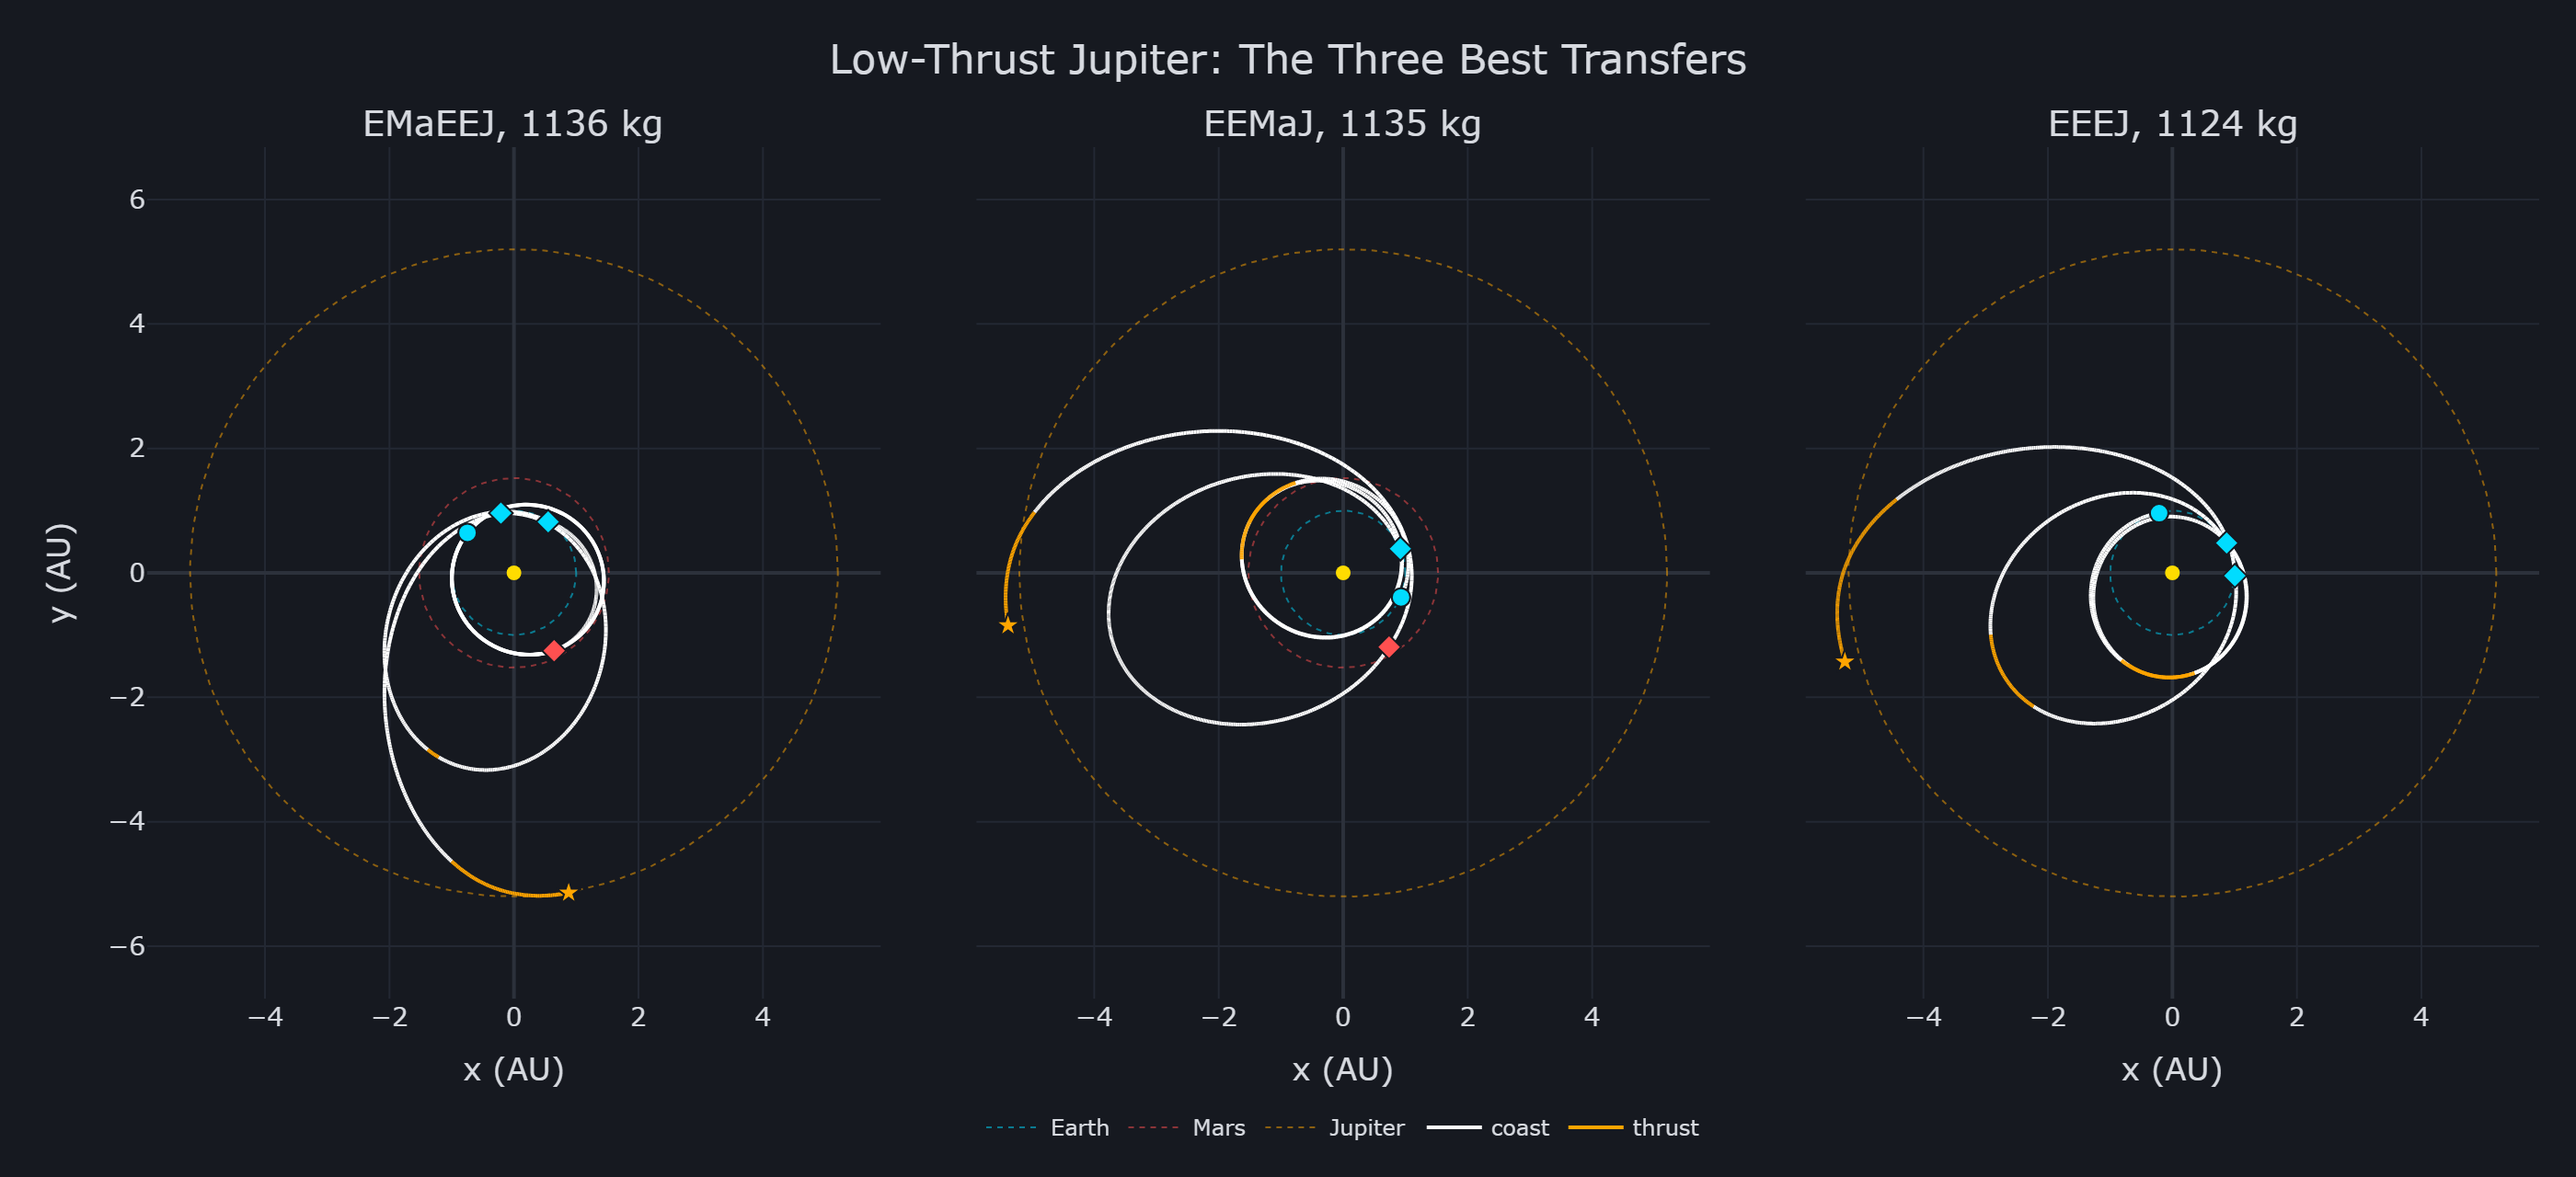
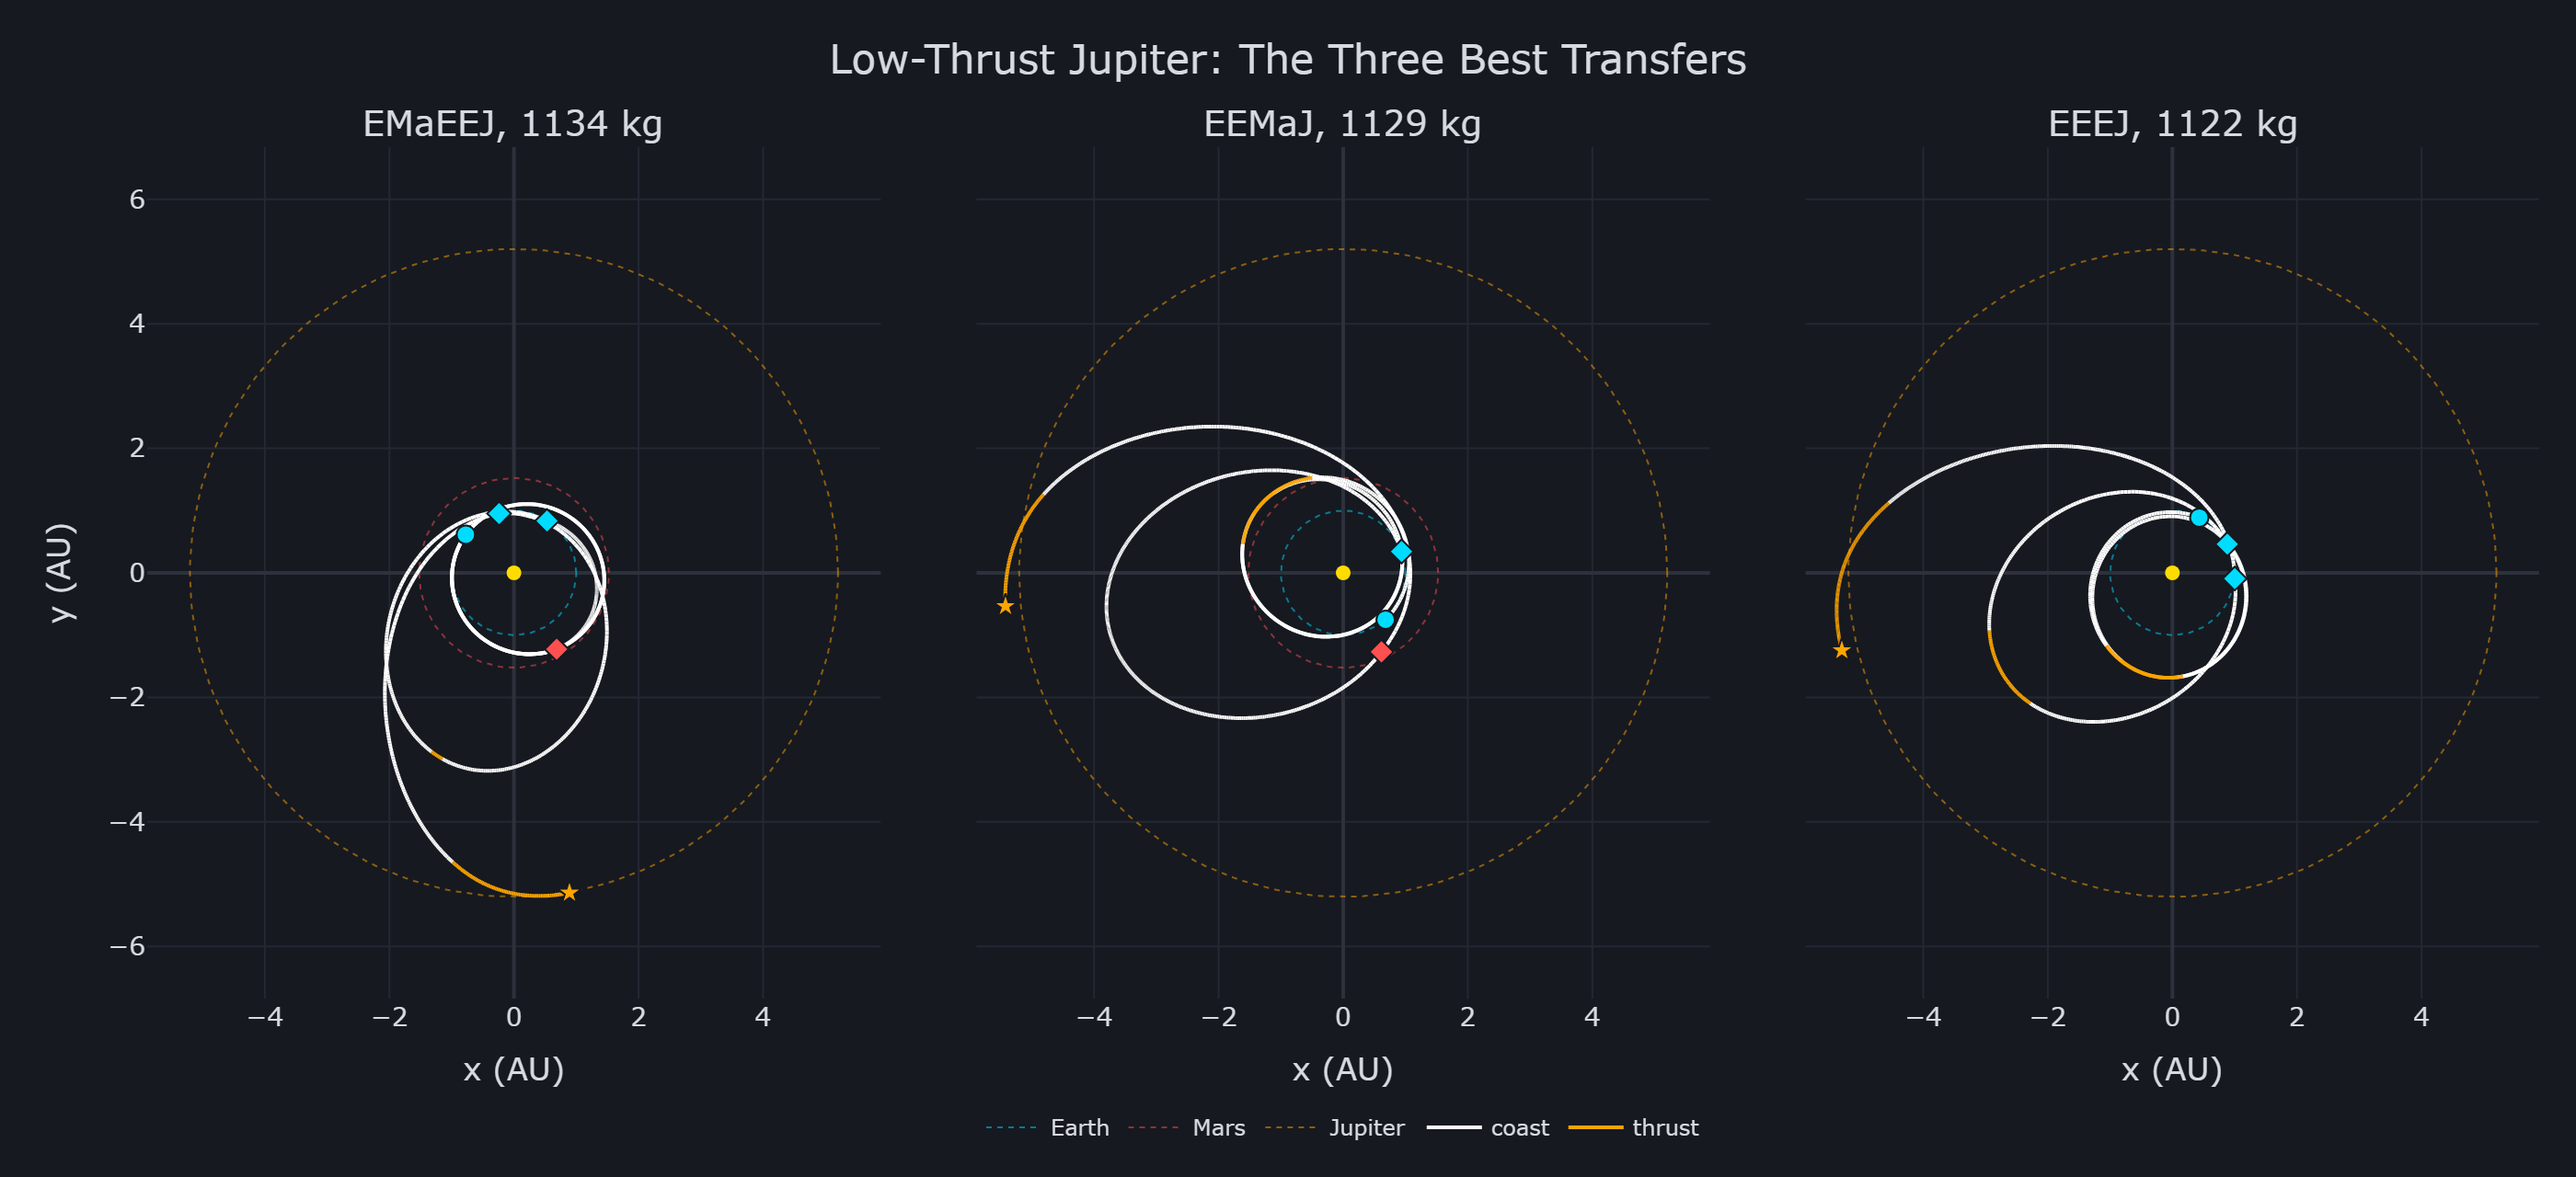
Gallery: low-thrust best transfers with clean coasts

diff --git a/Epicycle/docs/src/gallery.md b/Epicycle/docs/src/gallery.md
@@ -164,8 +164,8 @@ Low-thrust transfers to Jupiter and Saturn for a 1500 kg spacecraft with a 0.1 N
 thruster, launching between 2030 and 2040 at up to 4 km/s, ten years of flight at most, and up to
 four flybys. Each leg is a Sims-Flanagan transcription, and the cost is the mass delivered after a
 chemical orbit insertion. These searches ran before the survey was added, so they are the genetic
-algorithm alone. The best to Jupiter delivers 1136 kg on a Mars, Earth, Earth tour; the best to Saturn delivers
-1287 kg through Earth twice and Jupiter. Thrust arcs are orange.
+algorithm alone. Each of the three best was then solved again with every segment under 5 % throttle held at zero, so the coasts carry no residual thrust. The best to Jupiter delivers 1134 kg on a Mars, Earth, Earth tour; the best to Saturn delivers
+1284 kg through Earth twice and Jupiter. Thrust arcs are orange.
 
 ```julia
 using Epicycle
